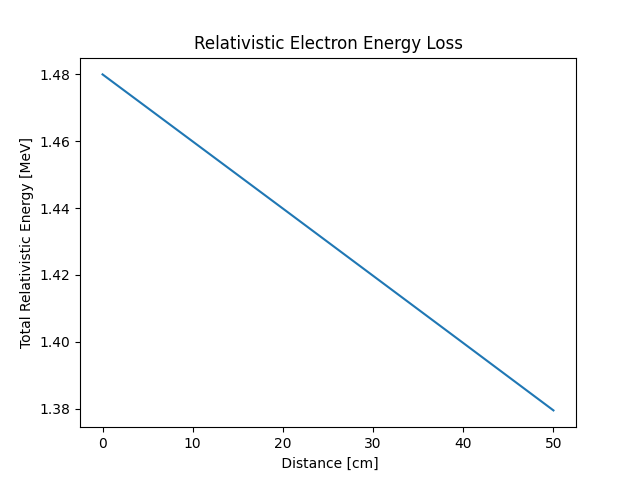
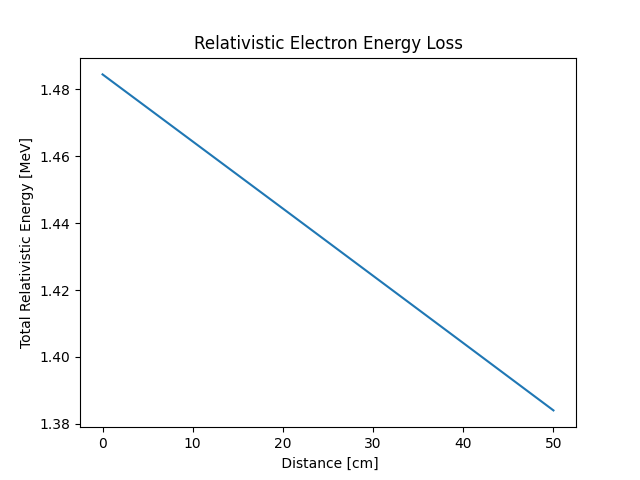
dkaj

diff --git a/AEL/REM/Stopping_Power.py b/AEL/REM/Stopping_Power.py
@@ -9,7 +9,7 @@ downloads_dir = os.path.expanduser('~/Downloads')
 E_r = 0.511 #m_0*c^2 [MeV]
 I = 8.57E-5 #[MeV]
 C = 9.24E-5 #0.5*rho*K*Z/A [MeV/cm]
-E_max = 1.48 #[MeV] initial energy of electron
+E_max = 1.4845 #[MeV] initial energy of electron
 s_avg = np.pi*2.5 #[cm] average arc length to detector
 s_max = 50 #[cm] arbitrary large distance for energy loss plotting
 
@@ -56,7 +56,7 @@ plt.xlabel("Energy [MeV]")
 plt.ylabel("Linear Stopping Power [MeV/cm]")
 plt.title("Relativistic Stopping Power")
 plt.savefig("Stopping_Power.png", dpi=200, bbox_inches="tight")
-#plt.savefig(os.path.join(downloads_dir, "Stopping_Power.png"), dpi=200, bbox_inches="tight")
+plt.savefig(os.path.join(downloads_dir, "Stopping_Power.png"), dpi=200, bbox_inches="tight")
 
 
 #---------- plotting E as a func of distance traveled -----------#
@@ -66,7 +66,7 @@ plt.ylabel("Total Relativistic Energy [MeV]")
 plt.xlabel(" Distance [cm]")
 plt.title("Relativistic Electron Energy Loss")
 plt.savefig("Rel_Energy_Loss")
-#plt.savefig(os.path.join(downloads_dir, "Rel_Energy_Loss.png"), dpi=200, bbox_inches="tight")
+plt.savefig(os.path.join(downloads_dir, "Rel_Energy_Loss.png"), dpi=200, bbox_inches="tight")
 
 
 #---------- finds E_det from trajectory arc length s ----------#
